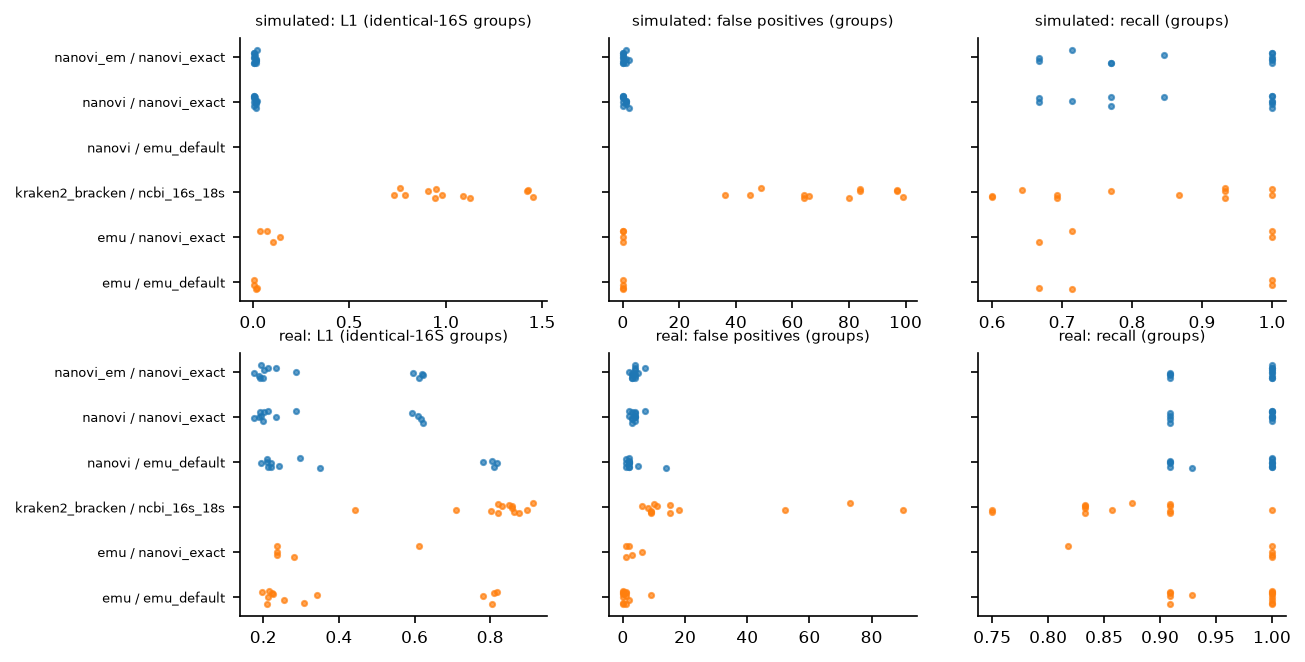
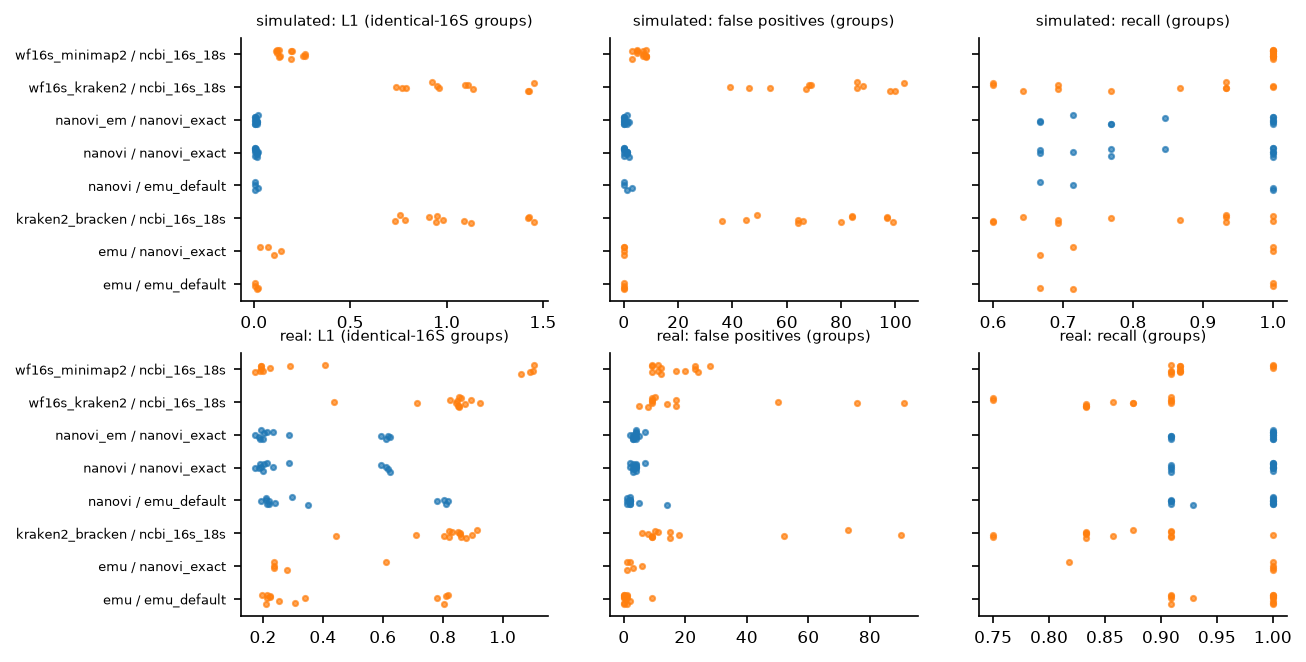
feat(benchmarks): wf-16s and NanoVI on Emu's database in the comparison (D8, W4, W5)

diff --git a/docs/benchmarks/methods_2026.md b/docs/benchmarks/methods_2026.md
@@ -387,9 +387,9 @@ Emu's *Ruminococcus gnavus* and *Paeniclostridium sordellii*, NCBI synonyms
 different names (Zymo's *Bacillus* is *B. subtilis* in NCBI and *B. spizizenii* in
 GTDB, 17% of the MSPlus mock). The comparison therefore uses the identical-16S group
 level (species whose 16S sequences are identical in GTDB merged) and reports species
-level alongside. All tools already drop species below 0.1% at this depth, so the
-false-positive counts are not inflated by long tails (`fp_count_ge_0.1pct` equals the
-raw count for every tool).
+level alongside. Every tool except wf-16s in minimap2 mode already drops species
+below 0.1% at this depth; wf-16s minimap2 reports a tail (25.5 false-positive species
+per real sample, 13.6 at 0.1% or more; `fp_count_ge_0.1pct`).
 
 Real mocks (13 samples; Emu on NanoVI's database on 5):
 
@@ -401,6 +401,8 @@ Real mocks (13 samples; Emu on NanoVI's database on 5):
 | Emu 3.6.2 / Emu's database | 0.568 | 0.415 | 0.967 | 1.2 | 0.096 |
 | Emu 3.6.2 / exact GTDB (5) | 0.355 | 0.321 | 0.964 | 2.6 | 0.033 |
 | Kraken2 + Bracken / ncbi_16s_18s | 0.824 | 0.811 | 0.862 | 25.0 | 0.349 |
+| wf-16s v1.6.1 minimap2 / ncbi_16s_18s | 0.711 | 0.494 | 0.934 | 16.0 | 0.200 |
+| wf-16s v1.6.1 kraken2 / ncbi_16s_18s | 0.831 | 0.818 | 0.852 | 24.9 | 0.355 |
 
 Simulations (12 samples, 10k reads, seeds 1-3; Emu on the 4 seed-1 samples):
 
@@ -410,10 +412,12 @@ Simulations (12 samples, 10k reads, seeds 1-3; Emu on the 4 seed-1 samples):
 | NanoVI (EM) / exact GTDB | 0.131 | 0.010 | 0.869 | 0.4 |
 | Emu 3.6.2 / Emu's database (4) | 0.222 | 0.011 | 0.845 | 0 |
 | Emu 3.6.2 / exact GTDB (4) | 0.229 | 0.088 | 0.845 | 0 |
+| NanoVI (VB) / Emu's database (4) | 0.202 | 0.010 | 0.845 | 1.0 |
 | Kraken2 + Bracken / ncbi_16s_18s | 1.130 | 1.049 | 0.805 | 72.1 |
+| wf-16s v1.6.1 minimap2 / ncbi_16s_18s | 0.846 | 0.177 | 1.000 | 6.2 |
+| wf-16s v1.6.1 kraken2 / ncbi_16s_18s | 1.137 | 1.065 | 0.805 | 75.3 |
 
-<!-- pending: NanoVI on Emu's database for the 4 seed-1 simulations; wf-16s (minimap2,
-kraken2); NanoCLUST -->
+<!-- pending: NanoCLUST -->
 
 Paired on the same samples (`comparators_paired.tsv`):
 
@@ -425,7 +429,9 @@ Paired on the same samples (`comparators_paired.tsv`):
   lower with NanoVI on all 4 (mean 0.089), species recall 0.10 higher with NanoVI.
 - **Same database, both ways.** On Emu's database NanoVI and Emu give the same group L1
   (within 0.013 on every sample) and the same recall; NanoVI reports 1.8 more
-  false-positive groups (more on all 13). On NanoVI's database (5 real samples) group
+  false-positive groups (more on all 13). On the simulations, on Emu's database,
+  group L1 is equal (within 0.018), species L1 is lower with NanoVI on all 4 (mean
+  0.021) and NanoVI reports 1 more false-positive group. On NanoVI's database (5 real samples) group
   L1 differs by -0.011 to +0.037 (mean 0.009 in NanoVI's favour) and Emu reports 1.4
   fewer false-positive groups; on the simulations Emu's group L1 is 0.076 higher. The
   difference on the simulations comes from Emu's -N 50: with -N 50 the GTDB
@@ -435,7 +441,13 @@ Paired on the same samples (`comparators_paired.tsv`):
 - **VB vs EM in NanoVI's code**: no difference (group L1 within 0.002, 0-1 false-positive
   group).
 - **Kraken2 + Bracken**: worse than NanoVI on every sample (group L1 +0.48 real, +1.04
-  simulated; 21 and 72 more false-positive groups).
+  simulated; 21 and 72 more false-positive groups). wf-16s in kraken2 mode gives the
+  same results (it runs the same tools on the same database).
+- **wf-16s, minimap2 mode** (best hit per read, identity ≥ 95%, coverage ≥ 90%): group
+  L1 higher than NanoVI's on 10 of 13 real mocks (mean +0.16) and on all 12
+  simulations (+0.17), with 12 and 6 more false-positive groups; it detects more of
+  the rare simulated species (group recall 1.00 vs 0.87), since it applies no
+  abundance threshold.
 
 What this supports: NanoVI's lower error than Emu-as-shipped comes from the database
 (exact GTDB r226 vs Emu's rrnDB + NCBI RefSeq), not from the estimator. With the same

diff --git a/docs/benchmarks/m10_claims.md b/docs/benchmarks/m10_claims.md
@@ -10,7 +10,7 @@ Real = 13 mocks at 10,000 reads (ONT 2025.09 sup, Emu paper, preprint); simulate
 | 2 | GTDB-based reference database builder | Supported for the exact database only | The exact GTDB r226 database is what makes NanoVI more accurate than Emu (claim 5). Its clustered variants fail: c995 and reps add 6-25 false-positive species per real sample, through GTDB 16S sequences that are identical across genera (likely contamination; on the simulations reps puts 37-82% of the estimate on them) (§2, §4.2). The exact database is protected only by its redundancy, and less so at -N 50. Document the species definition and the cross-genus identical sequences (M6). |
 | 3 | phyloseq-ready consolidated outputs | Supported (Phase 2) | Not a benchmark question. |
 | 4 | A Bayesian (Dirichlet) formulation of Emu's model | Supported as a description | VB and Emu's EM give the same abundances everywhere: group L1 within 0.002 on every real and simulated sample, 0-1 false-positive group apart (§4.3, §10). The formulation's value is the posterior (claim 6), not better point estimates. Credit Emu. |
-| 5 | More accurate than Emu | Supported only as "NanoVI with its GTDB database" | As shipped, NanoVI has lower error than Emu on all 13 real mocks (identical-16S group L1 0.333 vs 0.415; species L1 0.352 vs 0.568) and on the simulations (species L1 lower by 0.09; group L1 equal). On the same database, both ways, the two give the same L1 (within 0.013 on Emu's database) and Emu reports 1-2 fewer false-positive groups per sample (§10). The gain comes from the database, not the model. Kraken2 + Bracken is far worse (group L1 +0.48 real; 21 more false-positive groups). <!-- pending: wf-16s, NanoCLUST; matched-SAM check of the false-positive gap --> |
+| 5 | More accurate than Emu | Supported only as "NanoVI with its GTDB database" | As shipped, NanoVI has lower error than Emu on all 13 real mocks (identical-16S group L1 0.333 vs 0.415; species L1 0.352 vs 0.568) and on the simulations (species L1 lower by 0.09; group L1 equal). On the same database, both ways, the two give the same L1 (within 0.013 on Emu's database) and Emu reports 1-2 fewer false-positive groups per sample (§10). The gain comes from the database, not the model. On the simulations, on Emu's database, NanoVI's species L1 is 0.02 lower than Emu's. Kraken2 + Bracken and wf-16s (kraken2 mode) are far worse (group L1 +0.48 real; 21 more false-positive groups); wf-16s in minimap2 mode is in between (group L1 +0.16 real, 12 more false-positive groups). <!-- pending: NanoCLUST; matched-SAM check of the false-positive gap --> |
 | 6 | Uncertainty quantification | Not supported as calibrated intervals; supportable as sampling intervals plus a warning | 95% intervals cover the truth in 93% / 81% / 38% of cases at 1k / 10k / 50k reads (species outside the pairs) and 42% for pair members at 10k. Mean-field, read bootstrap and an exact collapsed Gibbs sampler agree, so the intervals are not too narrow for the model: they miss because of systematic read-assignment error that does not shrink with depth (§8). `shared_read_fraction` flags the misses (AUC 0.75-0.84). |
 | 7 | Species-level resolution of close relatives | Not supported for species with identical 16S | Pairs whose members share identical 16S copies are not identifiable: *S. argenteus* is estimated at 0 and *E. fergusonii*'s reads go to *E. coli* (§4.5). Pairs that differ split close to truth on R10.4.1, with 11-19% of reads moved on R9.4.1. Zymo's *Bacillus* spreads over 7 species of the *B. subtilis* complex on R9.4 (§6). A species missing from the database is absorbed by its relatives; neither the unknown component nor identity or length filters detect it (§9). Detection needs 11-20 reads at 10k and 51-100 at 50k, set by the thresholds, not the model (§5). |
 
